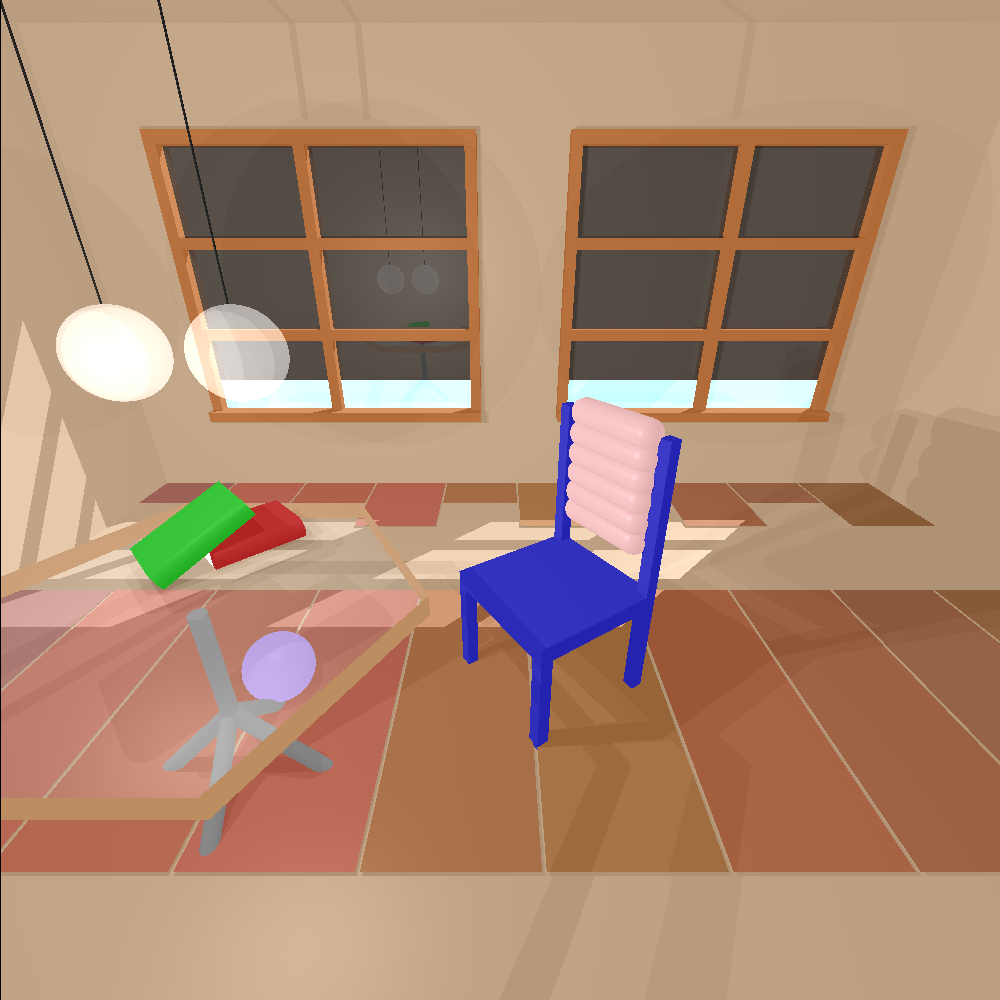
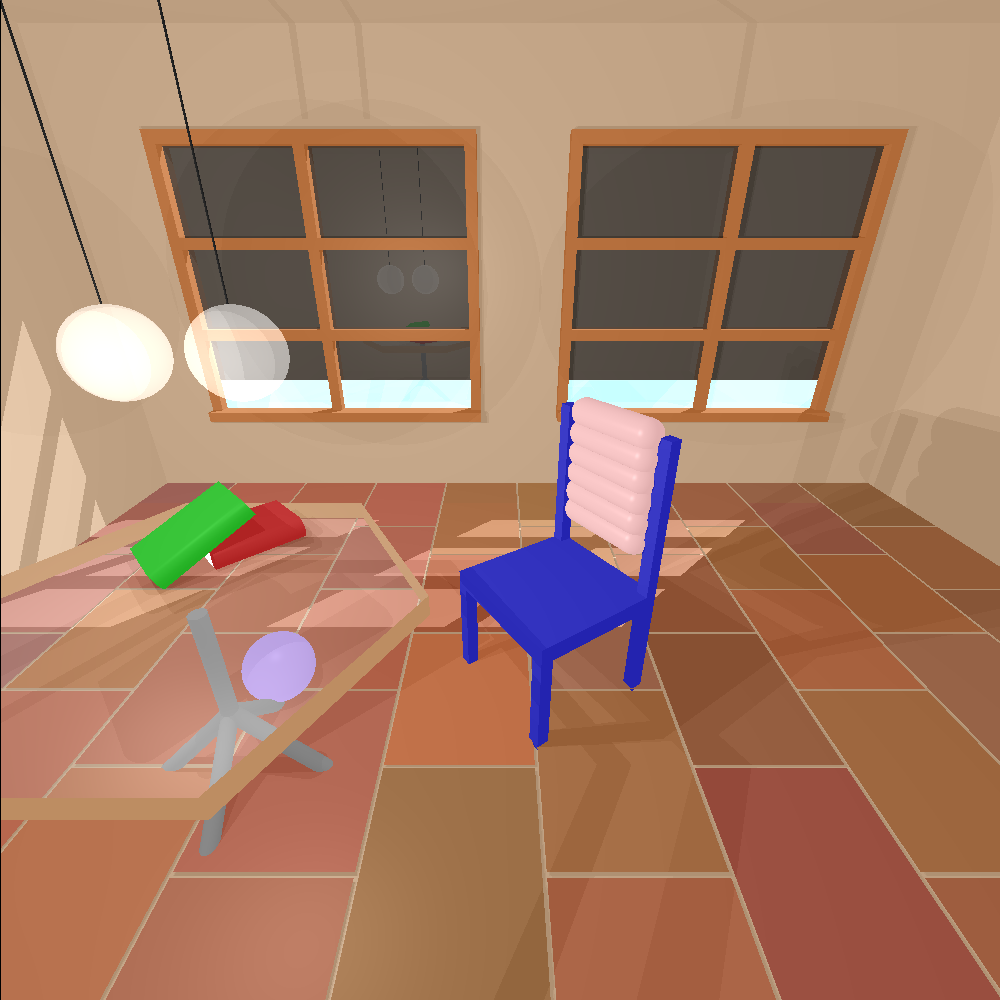
working on the last picture

diff --git a/minipMalat_part1/src/unittests/finalPicture/mp2.java b/minipMalat_part1/src/unittests/finalPicture/mp2.java
@@ -300,56 +300,252 @@ public class mp2 {
                         new Point3D(-200, 1, 100),
                         new Point3D(-160, 1, 100),
                         new Point3D(-160, 1, 149))
-                        .setEmission(new Color(110, 65, 30)) //
-
+                        .setEmission(new Color(120, 65, 30)) //
                         .setMaterial(new Material().setkD(0.25).setkS(0.25).setnShininess(20)),
+
                 new Polygon(new Point3D(-80, 1, 149),
                         new Point3D(-80, 1, 100),
                         new Point3D(-119, 1, 100),
                         new Point3D(-119, 1, 149))
+                        .setEmission(new Color(120, 65, 25)) //
+                        .setMaterial(new Material().setkD(0.25).setkS(0.25).setnShininess(20)),
+
+                new Polygon(new Point3D(0, 1, 149),
+                        new Point3D(0, 1, 100),
+                        new Point3D(-39, 1, 100),
+                        new Point3D(-39, 1, 149))
+                        .setEmission(new Color(125, 70, 30)) //
+                        .setMaterial(new Material().setkD(0.25).setkS(0.25).setnShininess(20)),
+
+                new Polygon(new Point3D(80, 1, 149),
+                        new Point3D(80, 1, 100),
+                        new Point3D(41, 1, 100),
+                        new Point3D(41, 1, 149))
+                        .setEmission(new Color(135, 60, 40)) //
+                        .setMaterial(new Material().setkD(0.25).setkS(0.25).setnShininess(20)),
+
+                new Polygon(new Point3D(160, 1, 149),
+                        new Point3D(160, 1, 100),
+                        new Point3D(121, 1, 100),
+                        new Point3D(121, 1, 149))
+                        .setEmission(new Color(140, 60, 35)) //
+                        .setMaterial(new Material().setkD(0.25).setkS(0.25).setnShininess(20)),
+
+
+                new Polygon(new Point3D(40, 1, 174),
+                        new Point3D(40, 1, 125),
+                        new Point3D(1, 1, 125),
+                        new Point3D(1, 1, 174))
+                        .setEmission(new Color(130, 70, 30)) //
+                        .setMaterial(new Material().setkD(0.25).setkS(0.25).setnShininess(20)),
+                new Polygon(new Point3D(-120, 1, 174),
+                        new Point3D(-120, 1, 125),
+                        new Point3D(-159, 1, 125),
+                        new Point3D(-159, 1, 174))
+                        .setEmission(new Color(115, 55, 35)) //
+                        .setMaterial(new Material().setkD(0.25).setkS(0.25).setnShininess(20)),
+                new Polygon(new Point3D(-40, 1, 174),
+                        new Point3D(-40, 1, 125),
+                        new Point3D(-79, 1, 125),
+                        new Point3D(-79, 1, 174))
                         .setEmission(new Color(120, 60, 30)) //
+                        .setMaterial(new Material().setkD(0.25).setkS(0.25).setnShininess(20)),
+                new Polygon(new Point3D(120, 1, 174),
+                        new Point3D(120, 1, 125),
+                        new Point3D(81, 1, 125),
+                        new Point3D(81, 1, 174))
+                        .setEmission(new Color(130, 60, 35)) //
+                        .setMaterial(new Material().setkD(0.25).setkS(0.25).setnShininess(20)),
+                new Polygon(new Point3D(200, 1, 174),
+                        new Point3D(200, 1, 125),
+                        new Point3D(161, 1, 125),
+                        new Point3D(161, 1, 174))
+                        .setEmission(new Color(125, 60, 45)) //
+                        .setMaterial(new Material().setkD(0.25).setkS(0.25).setnShininess(20)),
+
+
+
+
+
+
+                new Polygon(new Point3D(40, 1, 124),
+                        new Point3D(40, 1, 75),
+                        new Point3D(1, 1, 75),
+                        new Point3D(1, 1, 124))
+                        .setEmission(new Color(125, 50, 20)) //
+                        .setMaterial(new Material().setkD(0.25).setkS(0.25).setnShininess(20)),
+                new Polygon(new Point3D(-120, 1, 124),
+                        new Point3D(-120, 1, 75),
+                        new Point3D(-159, 1, 75),
+                        new Point3D(-159, 1, 124))
+                        .setEmission(new Color(125, 63, 25)) //
                         .setMaterial(new Material().setkD(0.25).setkS(0.25).setnShininess(20)),
                 new Polygon(new Point3D(-40, 1, 124),
                         new Point3D(-40, 1, 75),
                         new Point3D(-79, 1, 75),
                         new Point3D(-79, 1, 124))
-                        .setEmission(new Color(130, 60, 30)) //
-                        .setMaterial(new Material().setkD(0.25).setkS(0.25).setnShininess(20)),
-                new Polygon(new Point3D(0, 1, 149),
-                        new Point3D(0, 1, 100),
-                        new Point3D(-39, 1, 100),
-                        new Point3D(-39, 1, 149))
-                        .setEmission(new Color(125, 75, 30)) //
-                        .setMaterial(new Material().setkD(0.25).setkS(0.25).setnShininess(20)),
-                new Polygon(new Point3D(40, 1, 124),
-                        new Point3D(40, 1, 75),
-                        new Point3D(1, 1, 75),
-                        new Point3D(1, 1, 124))
-                        .setEmission(new Color(125, 70, 30)) //
-                        .setMaterial(new Material().setkD(0.25).setkS(0.25).setnShininess(20)),
-                new Polygon(new Point3D(80, 1, 149),
-                        new Point3D(80, 1, 100),
-                        new Point3D(41, 1, 100),
-                        new Point3D(41, 1, 149))
-                        .setEmission(new Color(140, 60, 40)) //
+                        .setEmission(new Color(115, 55, 25)) //
                         .setMaterial(new Material().setkD(0.25).setkS(0.25).setnShininess(20)),
                 new Polygon(new Point3D(120, 1, 124),
                         new Point3D(120, 1, 75),
                         new Point3D(81, 1, 75),
                         new Point3D(81, 1, 124))
-                        .setEmission(new Color(135, 60, 35)) //
-                        .setMaterial(new Material().setkD(0.25).setkS(0.25).setnShininess(20)),
-                new Polygon(new Point3D(160, 1, 149),
-                        new Point3D(160, 1, 100),
-                        new Point3D(121, 1, 100),
-                        new Point3D(121, 1, 149))
-                        .setEmission(new Color(140, 60, 40)) //
+                        .setEmission(new Color(140, 65, 35)) //
                         .setMaterial(new Material().setkD(0.25).setkS(0.25).setnShininess(20)),
                 new Polygon(new Point3D(200, 1, 124),
                         new Point3D(200, 1, 75),
                         new Point3D(161, 1, 75),
                         new Point3D(161, 1, 124))
+                        .setEmission(new Color(130, 60, 45)) //
+                        .setMaterial(new Material().setkD(0.25).setkS(0.25).setnShininess(20)),
+
+
+
+                new Polygon(new Point3D(40, 1, 74),
+                        new Point3D(40, 1, 25),
+                        new Point3D(1, 1, 25),
+                        new Point3D(1, 1, 74))
+                        .setEmission(new Color(150, 70, 30)) //
+                        .setMaterial(new Material().setkD(0.25).setkS(0.25).setnShininess(20)),
+                new Polygon(new Point3D(-120, 1, 74),
+                        new Point3D(-120, 1, 25),
+                        new Point3D(-159, 1, 25),
+                        new Point3D(-159, 1, 74))
+                        .setEmission(new Color(115, 63, 35)) //
+                        .setMaterial(new Material().setkD(0.25).setkS(0.25).setnShininess(20)),
+                new Polygon(new Point3D(-40, 1, 74),
+                        new Point3D(-40, 1, 25),
+                        new Point3D(-79, 1, 25),
+                        new Point3D(-79, 1, 74))
+                        .setEmission(new Color(110, 55, 25)) //
+                        .setMaterial(new Material().setkD(0.25).setkS(0.25).setnShininess(20)),
+                new Polygon(new Point3D(120, 1, 74),
+                        new Point3D(120, 1, 25),
+                        new Point3D(81, 1, 25),
+                        new Point3D(81, 1, 74))
+                        .setEmission(new Color(135, 60, 35)) //
+                        .setMaterial(new Material().setkD(0.25).setkS(0.25).setnShininess(20)),
+                new Polygon(new Point3D(200, 1, 74),
+                        new Point3D(200, 1, 25),
+                        new Point3D(161, 1, 25),
+                        new Point3D(161, 1, 74))
                         .setEmission(new Color(120, 60, 50)) //
+                        .setMaterial(new Material().setkD(0.25).setkS(0.25).setnShininess(20)),
+
+
+
+
+                new Polygon(new Point3D(120, 1, 24),
+                        new Point3D(120, 1, -25),
+                        new Point3D(81, 1, -25),
+                        new Point3D(81, 1, 24))
+                        .setEmission(new Color(140, 70, 35)) //
+                        .setMaterial(new Material().setkD(0.25).setkS(0.25).setnShininess(20)),
+
+                new Polygon(new Point3D(40, 1, 24),
+                        new Point3D(40, 1, -25),
+                        new Point3D(1, 1, -25),
+                        new Point3D(1, 1, 24))
+                        .setEmission(new Color(115, 70, 30)) //
+                        .setMaterial(new Material().setkD(0.25).setkS(0.25).setnShininess(20)),
+                new Polygon(new Point3D(-40, 1, 24),
+                        new Point3D(-40, 1, -25),
+                        new Point3D(-79, 1, -25),
+                        new Point3D(-79, 1, 24))
+                        .setEmission(new Color(115, 40, 25)) //
+                        .setMaterial(new Material().setkD(0.25).setkS(0.25).setnShininess(20)),
+
+
+
+
+                new Polygon(new Point3D(-200, 1, 99),
+                        new Point3D(-200, 1, 50),
+                        new Point3D(-160, 1, 50),
+                        new Point3D(-160, 1, 99))
+                        .setEmission(new Color(110, 60, 30)) //
+                        .setMaterial(new Material().setkD(0.25).setkS(0.25).setnShininess(20)),
+
+                new Polygon(new Point3D(-80, 1, 99),
+                        new Point3D(-80, 1, 50),
+                        new Point3D(-119, 1, 50),
+                        new Point3D(-119, 1, 99))
+                        .setEmission(new Color(130, 60, 25)) //
+                        .setMaterial(new Material().setkD(0.25).setkS(0.25).setnShininess(20)),
+
+                new Polygon(new Point3D(0, 1, 99),
+                        new Point3D(0, 1, 50),
+                        new Point3D(-39, 1, 50),
+                        new Point3D(-39, 1, 99))
+                        .setEmission(new Color(125, 70, 45)) //
+                        .setMaterial(new Material().setkD(0.25).setkS(0.25).setnShininess(20)),
+
+                new Polygon(new Point3D(80, 1, 99),
+                        new Point3D(80, 1, 50),
+                        new Point3D(41, 1, 50),
+                        new Point3D(41, 1, 99))
+                        .setEmission(new Color(140, 60, 35)) //
+                        .setMaterial(new Material().setkD(0.25).setkS(0.25).setnShininess(20)),
+
+                new Polygon(new Point3D(160, 1, 99),
+                        new Point3D(160, 1, 50),
+                        new Point3D(121, 1, 50),
+                        new Point3D(121, 1, 99))
+                        .setEmission(new Color(135, 70, 25)) //
+                        .setMaterial(new Material().setkD(0.25).setkS(0.25).setnShininess(20)),
+
+
+
+
+                new Polygon(new Point3D(-80, 1, 49),
+                        new Point3D(-80, 1, 0),
+                        new Point3D(-119, 1, 0),
+                        new Point3D(-119, 1, 49))
+                        .setEmission(new Color(120, 60, 25)) //
+                        .setMaterial(new Material().setkD(0.25).setkS(0.25).setnShininess(20)),
+
+                new Polygon(new Point3D(0, 1, 49),
+                        new Point3D(0, 1, 0),
+                        new Point3D(-39, 1, 0),
+                        new Point3D(-39, 1, 49))
+                        .setEmission(new Color(125, 60, 35)) //
+                        .setMaterial(new Material().setkD(0.25).setkS(0.25).setnShininess(20)),
+
+                new Polygon(new Point3D(80, 1, 49),
+                        new Point3D(80, 1, 0),
+                        new Point3D(41, 1, 0),
+                        new Point3D(41, 1, 49))
+                        .setEmission(new Color(130, 65, 40)) //
+                        .setMaterial(new Material().setkD(0.25).setkS(0.25).setnShininess(20)),
+
+                new Polygon(new Point3D(160, 1, 49),
+                        new Point3D(160, 1, 0),
+                        new Point3D(121, 1, 0),
+                        new Point3D(121, 1, 49))
+                        .setEmission(new Color(140, 60, 35)) //
+                        .setMaterial(new Material().setkD(0.25).setkS(0.25).setnShininess(20)),
+
+
+
+
+                new Polygon(new Point3D(-80, 1, -1),
+                        new Point3D(-80, 1, -50),
+                        new Point3D(-119, 1, -50),
+                        new Point3D(-119, 1, -1))
+                        .setEmission(new Color(120, 55, 25)) //
+                        .setMaterial(new Material().setkD(0.25).setkS(0.25).setnShininess(20)),
+
+                new Polygon(new Point3D(0, 1, -1),
+                        new Point3D(0, 1, -50),
+                        new Point3D(-39, 1, -50),
+                        new Point3D(-39, 1, -1))
+                        .setEmission(new Color(130, 60, 30)) //
+                        .setMaterial(new Material().setkD(0.25).setkS(0.25).setnShininess(20)),
+
+                new Polygon(new Point3D(80, 1, -1),
+                        new Point3D(80, 1, -50),
+                        new Point3D(41, 1, -50),
+                        new Point3D(41, 1, -1))
+                        .setEmission(new Color(130, 65, 40)) //
                         .setMaterial(new Material().setkD(0.25).setkS(0.25).setnShininess(20)),
 
 //Table
